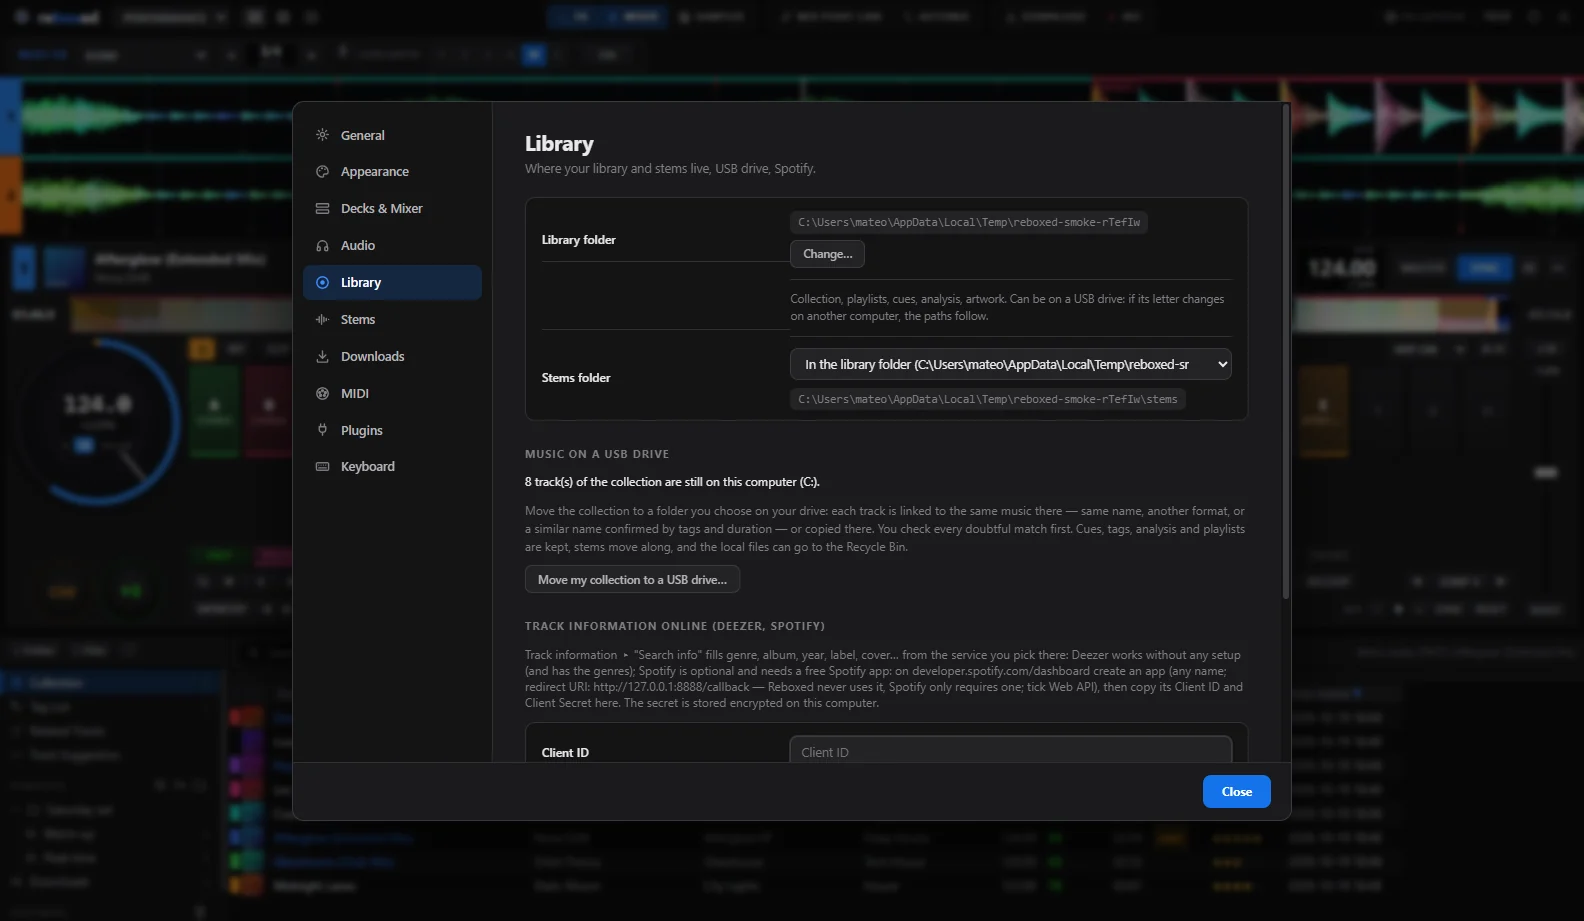
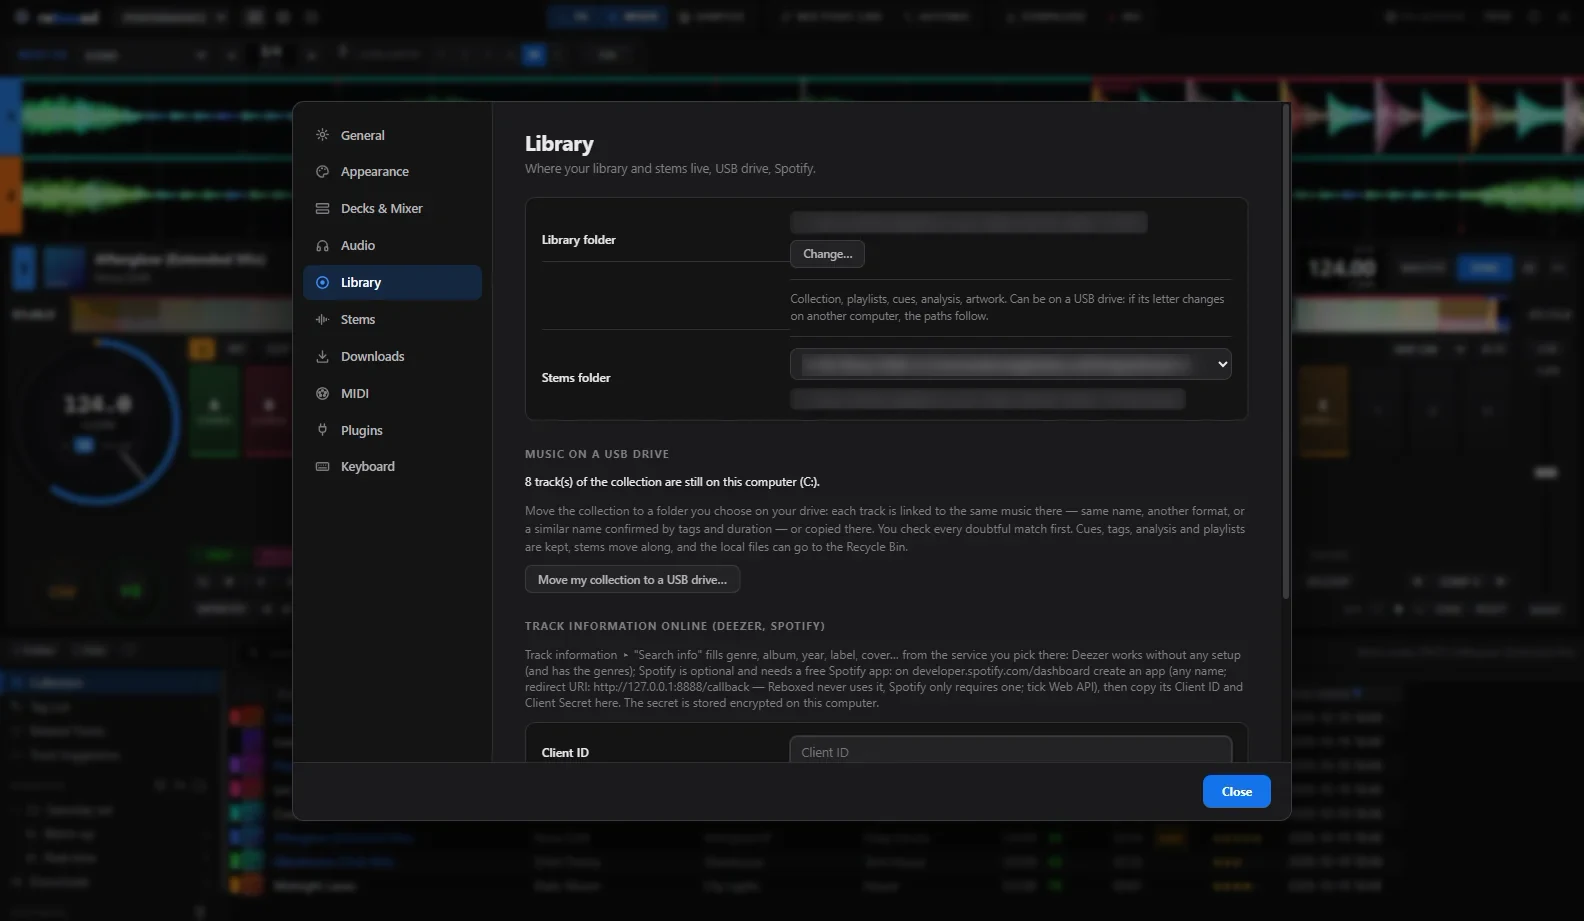
Home tiles: 2 decks, name cleaner, CDJ export, auto-tag; gallery down to those 4; library settings shot with blurred paths
Claude-Session: https://claude.ai/code/session_01CPVrWrRjcyRw2Ub66uj3GX

Changed region(s): [[0.4949, 0.3648, 0.7424, 0.456], [0.7734, 0.8512, 0.8043, 0.8817]]

diff --git a/index.html b/index.html
@@ -70,17 +70,17 @@
         <div class="t-text"><span class="eyebrow">Decks</span><h3>Des jogs qui tournent</h3><p>BPM et calibres au centre du jog, 16 hot cues, sync, scratch.</p></div>
         <div class="t-img"><img src="assets/shots/22-song-loaded.webp" alt="Deux decks avec jogs" loading="lazy"></div>
       </a>
-      <a class="tile reveal d1" href="materiel.html#cdj">
+      <a class="tile reveal d1" href="fonctionnalites.html#telechargement">
+        <div class="t-text"><span class="eyebrow">Noms</span><h3>Des titres propres</h3><p>Le nettoyeur enlève « (Official Video) », « Lyrics », « - Topic »… et sépare artiste et titre.</p></div>
+        <div class="t-img"><img src="assets/shots/09-clean-names.webp" alt="Nettoyeur de noms" loading="lazy"></div>
+      </a>
+      <a class="tile reveal" href="materiel.html#cdj">
         <div class="t-text"><span class="eyebrow">CDJ</span><h3>Joue sur CDJ</h3><p>Une clé USB prête pour les lecteurs Pioneer, cues colorées comprises.</p></div>
         <div class="t-img"><img src="assets/shots/21-cdj-export.webp" alt="Export CDJ" loading="lazy"></div>
       </a>
-      <a class="tile reveal" href="fonctionnalites.html#tags">
+      <a class="tile reveal d1" href="fonctionnalites.html#tags">
         <div class="t-text"><span class="eyebrow">Tags</span><h3>Une collection propre</h3><p>Genres, titres et artistes depuis Deezer et Spotify, en masse.</p></div>
         <div class="t-img"><img src="assets/shots/11-autotag-review.webp" alt="Auto-tag" loading="lazy"></div>
-      </a>
-      <a class="tile reveal d1" href="materiel.html">
-        <div class="t-text"><span class="eyebrow">Matériel</span><h3>Ton contrôleur, comme dans rekordbox</h3><p>Jogs, pads, FX, LED, carte son : ce que rekordbox fait avec ton matériel, Reboxed le fait aussi.</p></div>
-        <div class="t-img"><img src="assets/shots/23-song-stems.webp" alt="Decks et pads" loading="lazy"></div>
       </a>
     </div>
     <p class="center reveal" style="margin-top:34px"><a class="link-more" href="fonctionnalites.html">Toutes les fonctionnalités</a></p>

diff --git a/fonctionnalites.html b/fonctionnalites.html
@@ -148,10 +148,7 @@
 <script src="assets/site.js?v=20"></script>
 <script>
   const shots = [
-    ['01-performance', '2 decks avec jogs'], ['22-song-loaded', 'Morceau chargé'], ['23-song-stems', 'Stems HQ'], ['03-waveform-zoom', 'Onde zoomée'],
-    ['05-sampler', 'Sampler'], ['06-library', 'Mode LIBRARY'], ['07-download-search', 'Recherche YouTube / SoundCloud'], ['09-clean-names', 'Nettoyeur de noms'],
-    ['10-autotag-recipe', 'Auto-tag : recette'], ['11-autotag-review', 'Auto-tag : aperçu'], ['12-track-info-lookup', 'Track info'], ['13-appearance', 'Thèmes'],
-    ['18-library-settings', 'Bibliothèque sur clé USB'], ['20-downloads-settings', 'Réglages des téléchargements'], ['19-stems-settings', 'Réglages des stems'], ['21-cdj-export', 'Export CDJ'],
+    ['01-performance', '2 decks avec jogs'], ['09-clean-names', 'Nettoyeur de noms'], ['21-cdj-export', 'Export CDJ'], ['11-autotag-review', 'Auto-tag'],
   ];
   const gal = document.getElementById('gallery');
   gal.innerHTML = shots.map(([f, c], i) => `<figure class="reveal${i % 4 ? ` d${i % 4}` : ''}" data-full="assets/shots/${f}.webp" data-cap="${c}"><img src="assets/shots/${f}.webp" alt="${c}" loading="lazy"><figcaption>${c}</figcaption></figure>`).join('');

diff --git a/materiel.html b/materiel.html
@@ -54,7 +54,7 @@
           <li><span>Un outil y déplace toute ta collection, en retrouvant les mêmes morceaux.</span></li>
         </ul>
       </div>
-      <figure class="shot tilt reveal d1" data-full="assets/shots/18-library-settings.webp" data-cap="Préférences ▸ Library"><img src="assets/shots/18-library-settings.webp" alt="Bibliothèque" loading="lazy"><span class="glare"></span></figure>
+      <figure class="shot tilt reveal d1" data-full="assets/shots/18-library-settings.webp?v=2" data-cap="Préférences ▸ Library"><img src="assets/shots/18-library-settings.webp?v=2" alt="Bibliothèque" loading="lazy"><span class="glare"></span></figure>
     </div>
   </div>
 </section>
